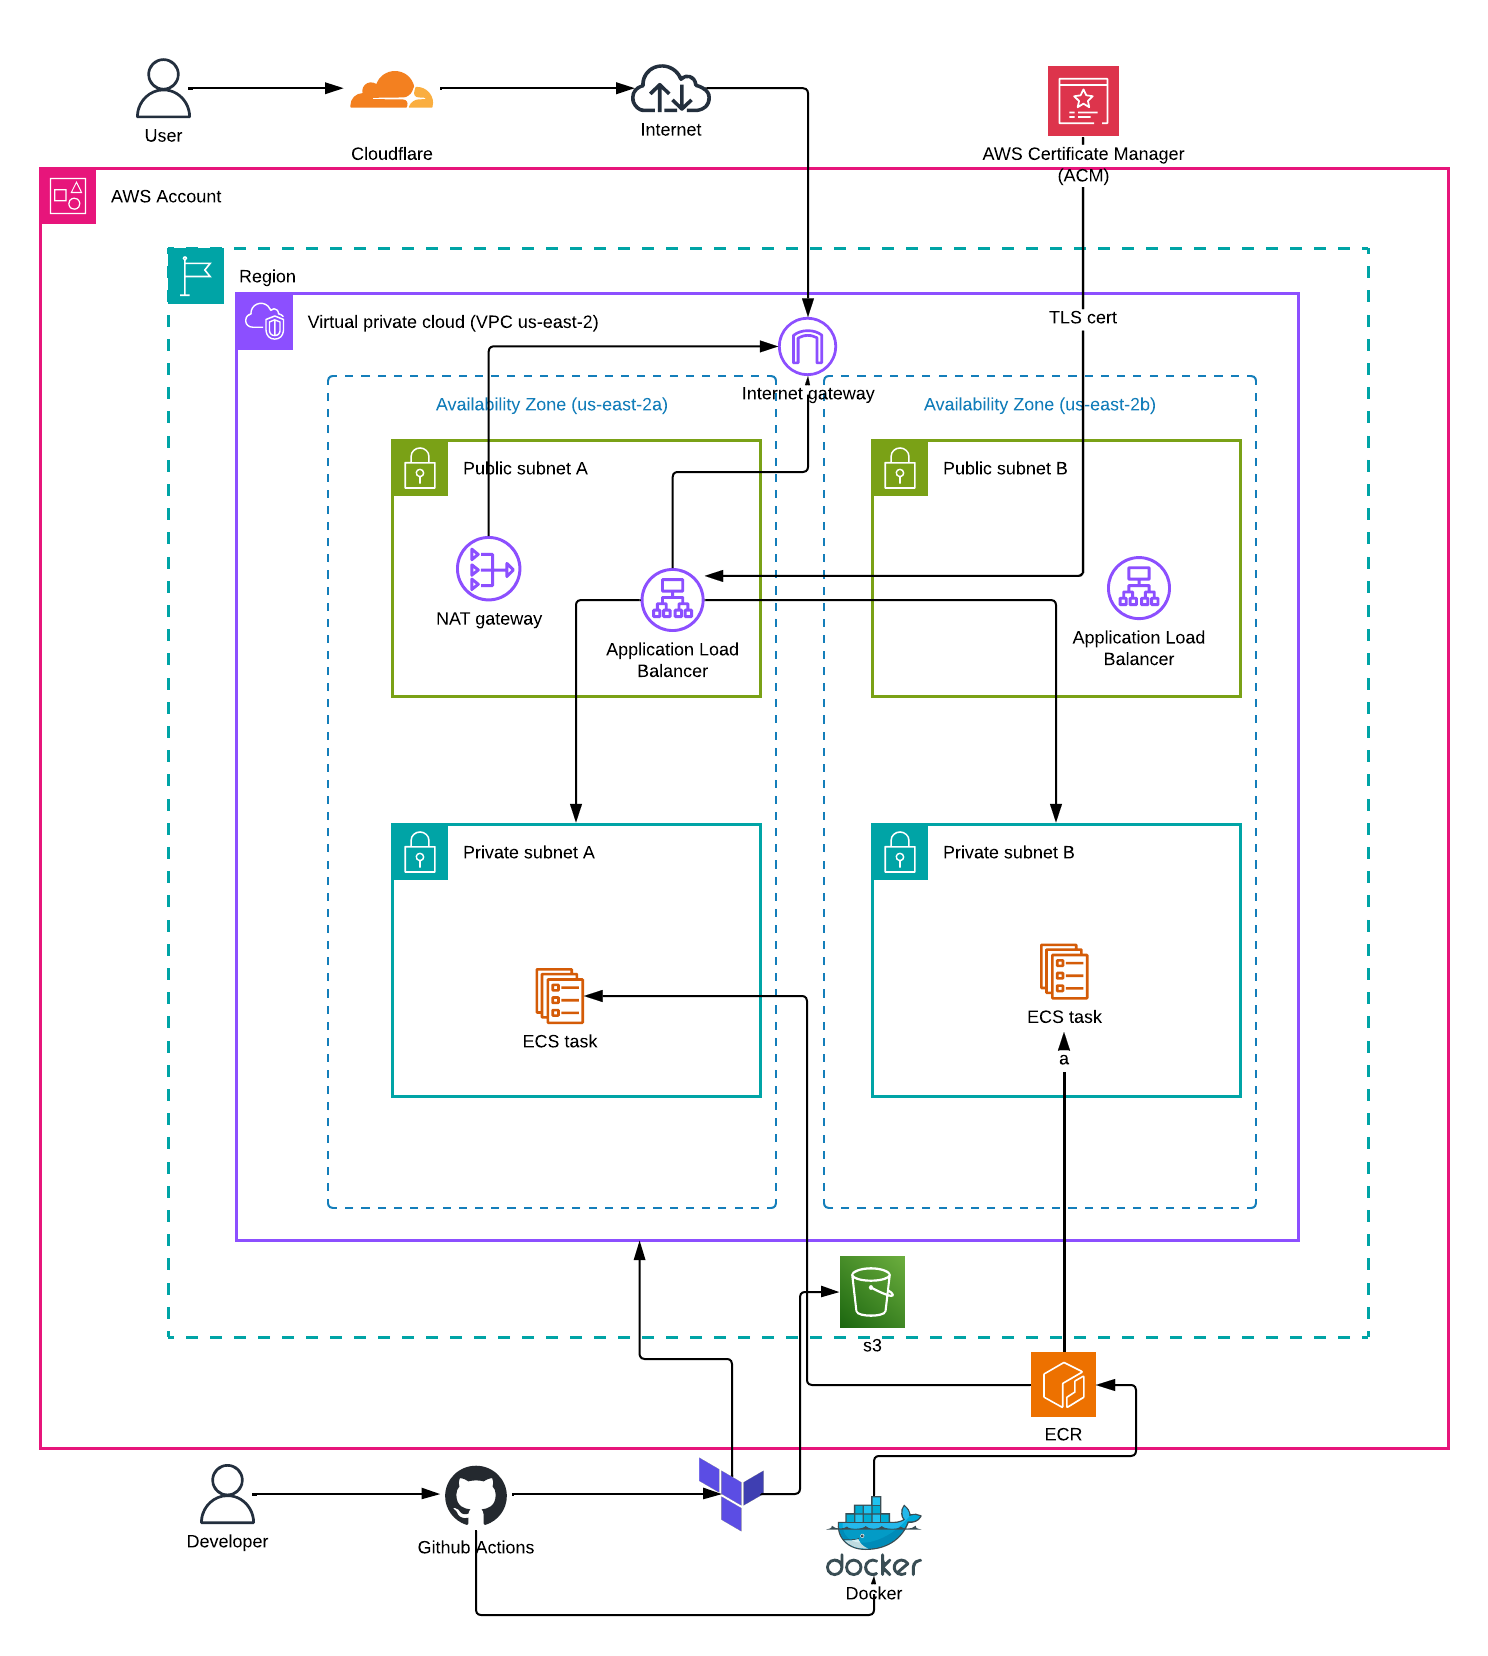
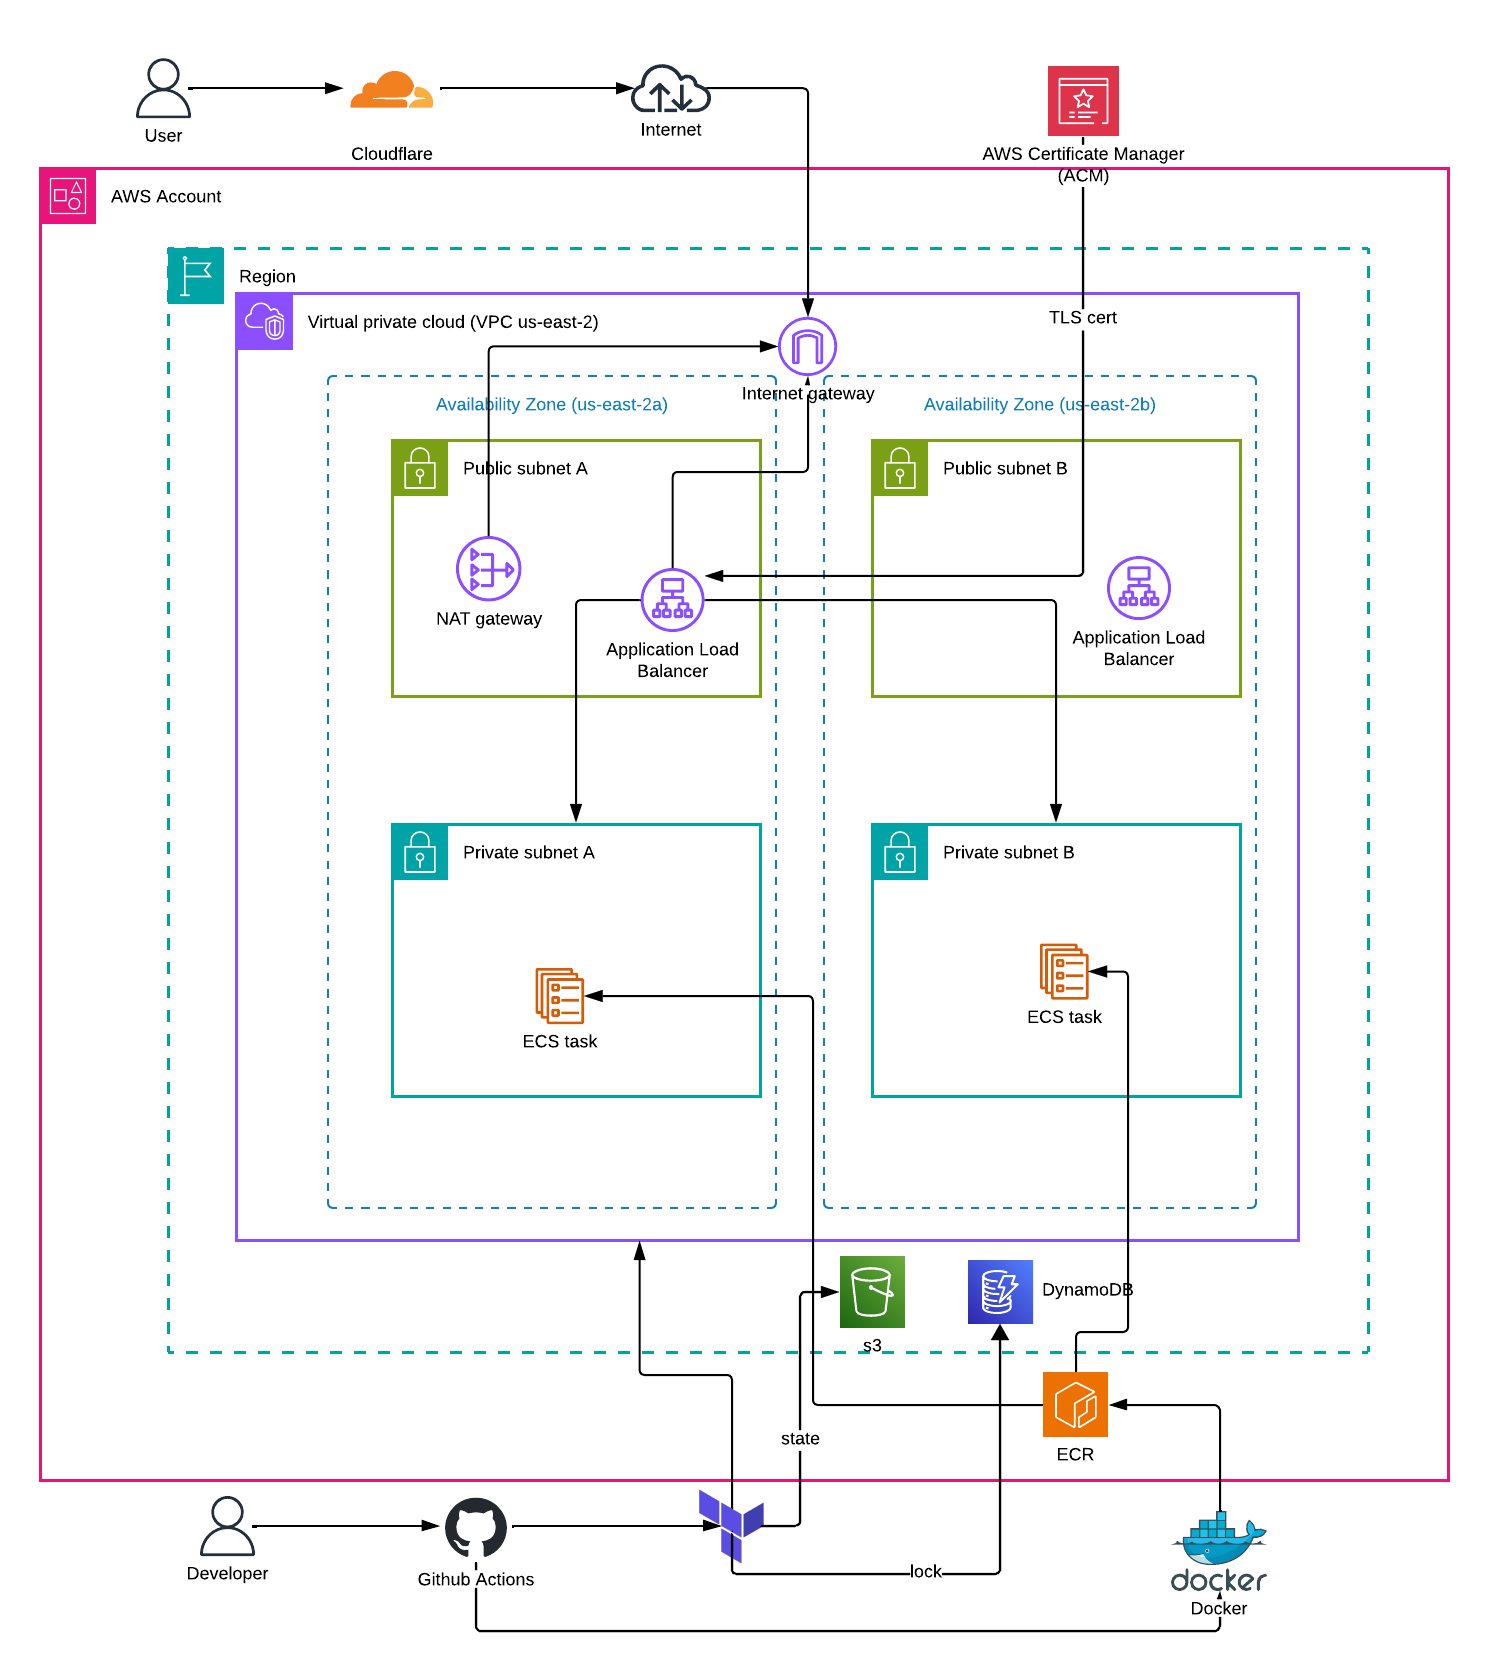
added DynamoDB

diff --git a/README.md b/README.md
@@ -84,7 +84,7 @@ http://localhost:5173
 Build the production image:
 
 ```bash
-docker build --platform linux/amd64 -f Dockerfile.mine -t it-tools:local .
+docker docker build --platform linux/amd64 -t it-tools:local .
 ```
 
 Run the container:
